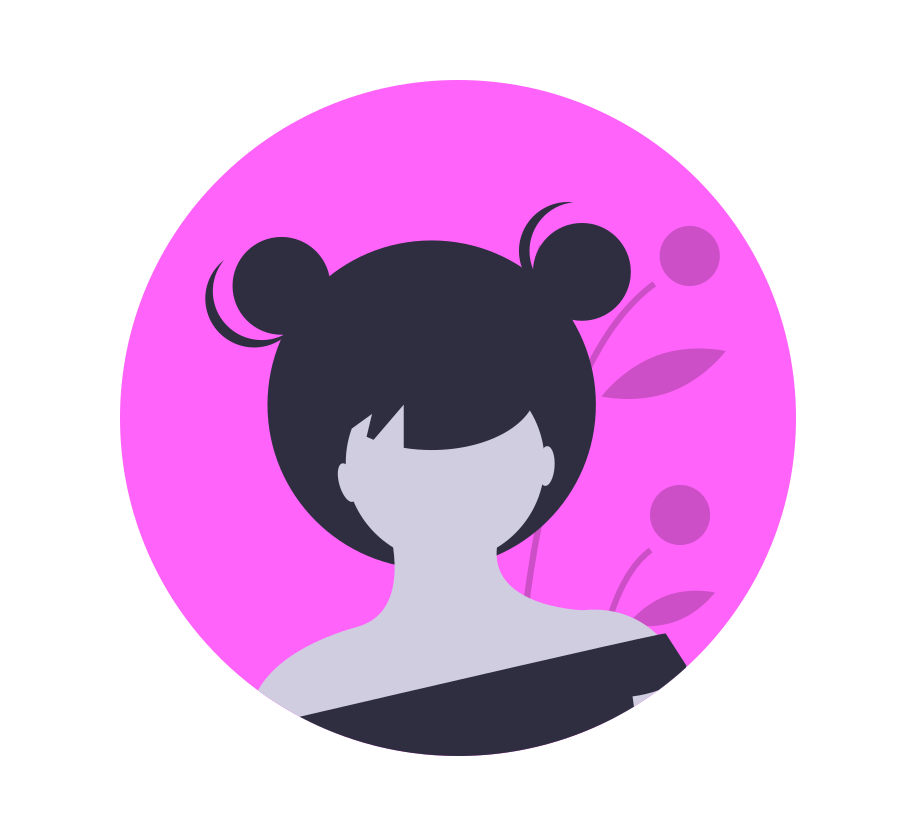
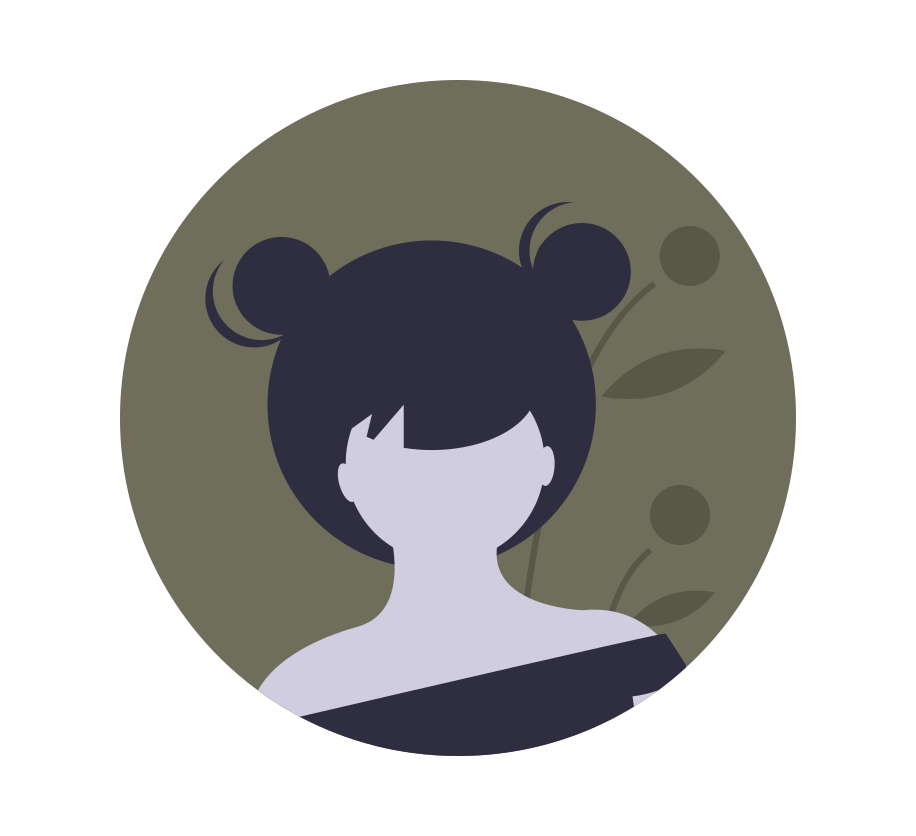
change color primary secondary

Changed region(s): [[0.1223, 0.0933, 0.8865, 0.8397]]

diff --git a/lib/app/globals/constant.dart b/lib/app/globals/constant.dart
@@ -1,8 +1,8 @@
 import 'package:flutter/material.dart';
 import 'package:unicons/unicons.dart';
 
-const primaryColor = Color.fromARGB(255, 244, 51, 238);
-const secondaryColor = Color.fromARGB(255, 238, 103, 233);
+const primaryColor = Color.fromARGB(255, 111, 110, 90);
+const secondaryColor = Color.fromARGB(255, 171, 169, 135);
 const canvasColor = Colors.white;
 
 const List<Map<String, dynamic>> listNavItem = [
